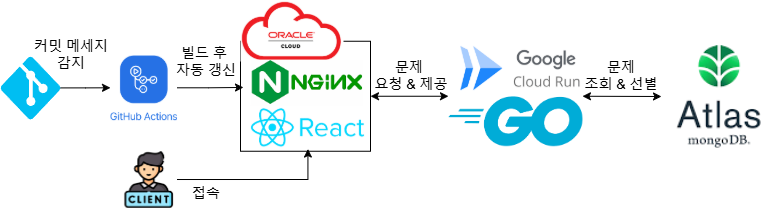
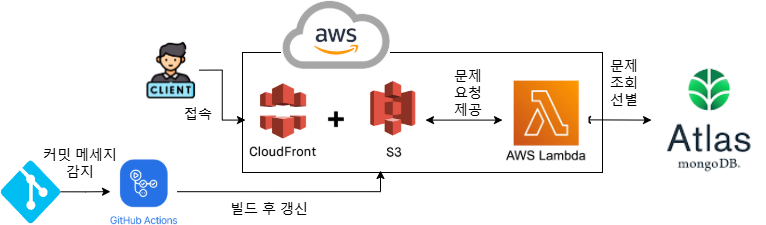
[010] cbt 서버리스 내용 갱신

Changed region(s): [[0.0, 0.0, 0.9909, 1.0], [0.4804, 0.6346, 0.5405, 0.6923]]

diff --git a/src/pages/Projects/Project5/data.js b/src/pages/Projects/Project5/data.js
@@ -37,12 +37,9 @@ export const projectData = {
     description: "멀티 클라우드 기반의 시험 문제 출제 시스템",
   
     techStack: [
-      "Vite",
       "React",
-      "TypeScript",
-      "Go",
-      "Oracle Cloud",
-      "GCP Cloud Run",
+      "Aws S3 + CloudFront",
+      "Aws Lambda",
       "MongoDB Atlas",
       "GitHub Actions"  
     ],
@@ -57,7 +54,7 @@ export const projectData = {
   
     process: `환경 구축
 • MongoDB Atlas 데이터베이스 등록
-• Go 백엔드 서버 (GCP Cloud Run) 구축
+• Python 백엔드 서버 (AWS Lambda) 구축
 • React + TypeScript 프론트엔드 개발
 • GitHub Actions를 통한 조건부 자동 배포 구성
 
@@ -68,16 +65,14 @@ export const projectData = {
       {
         title: "Frontend",
         items: [
-          "Vite",
-          "React + TypeScript",
-          "Oracle Cloud"
+          "React + Vite + TypeScript",
+          "Aws S3 + CloudFront"
         ]
       },
       {
         title: "Backend",
         items: [
-          "Go",
-          "GCP Cloud Run",
+          "Aws Lambda",
           "MongoDB Atlas"
         ]
       },
@@ -91,12 +86,13 @@ export const projectData = {
     ],
     improvements: `서비스 확장 계획:
 - MongoDB Atlas에 시험 문제 추가`,
-  
-    reflection: `1. Go 언어를 처음 도입하는 과정에서 새로운 언어의 동시성 처리와 문법 패턴을 익히는 데 어려움이 있었습니다.
-2. AWS(CloudFront, S3)와 GCP(Cloud Run), MongoDB Atlas를 연동하는 멀티 클라우드 아키텍처 구축 과정에서 각 서비스 간 통신 설정과 보안 구성에 어려움이 있었습니다.
-3. EC2 인스턴스의 Docker 기반 서비스를 서버리스로 마이그레이션하여 인프라 운영 비용을 95% 이상 절감했습니다.
-4. Aws 계정 만료로 인해 오라클 클라우드 무료 계정으로 이전하여 사용하고 있습니다.`,
-  
+
+    reflection: `1. 초기에는 GCP Cloud Run + Go 언어로 개발을 진행했습니다.
+    2. AWS Lambda로 이전하는 과정에서 Go 언어 지원 제한으로 인해 Python으로 마이그레이션했습니다.
+    3. AWS(CloudFront, S3)와 AWS Lambda, MongoDB Atlas를 연동하는 멀티 클라우드 아키텍처 구축 과정에서 각 서비스 간 권한 설정과 보안 구성에 어려움이 있었습니다.
+    4. 인스턴스의 Docker 기반 서비스를 서버리스로 마이그레이션하여 인프라 운영 비용을 95% 이상 절감했습니다.
+    5. AWS 무료 티어를 활용하여 CloudFront + S3, Lambda 기반의 완전 서버리스 아키텍처로 구축하여 운영 비용을 최소화했습니다.`,
+
     architectureImg: ArchitectureDiagram,
 
     media: allMedia,
